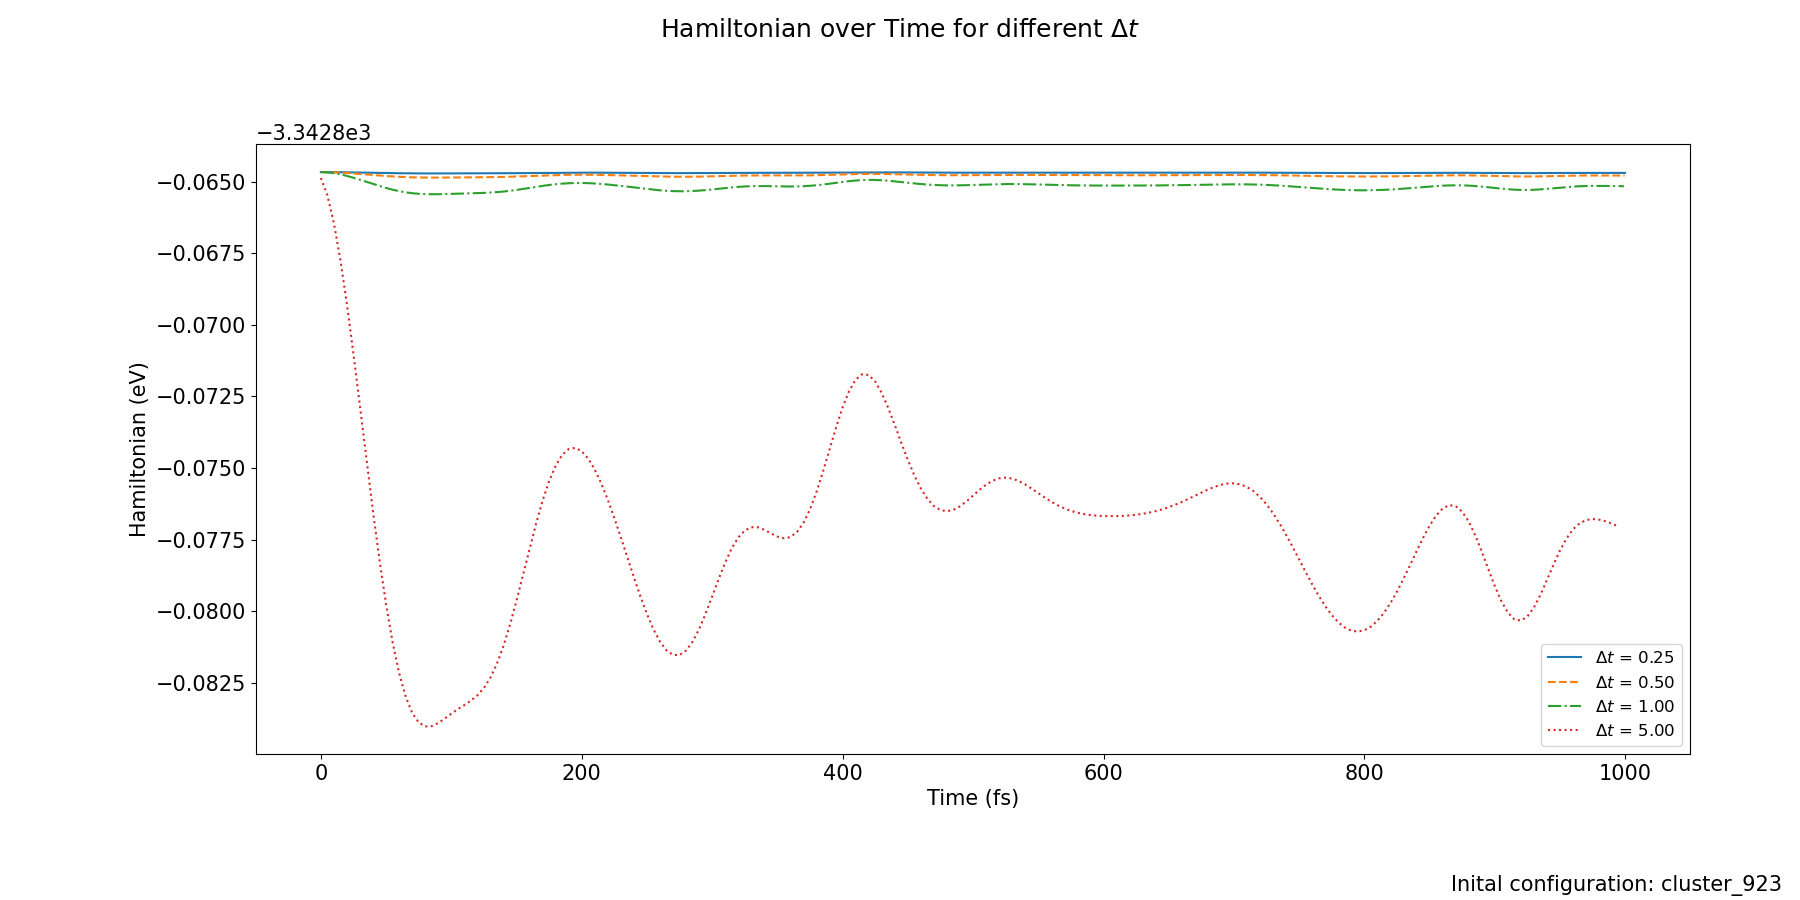
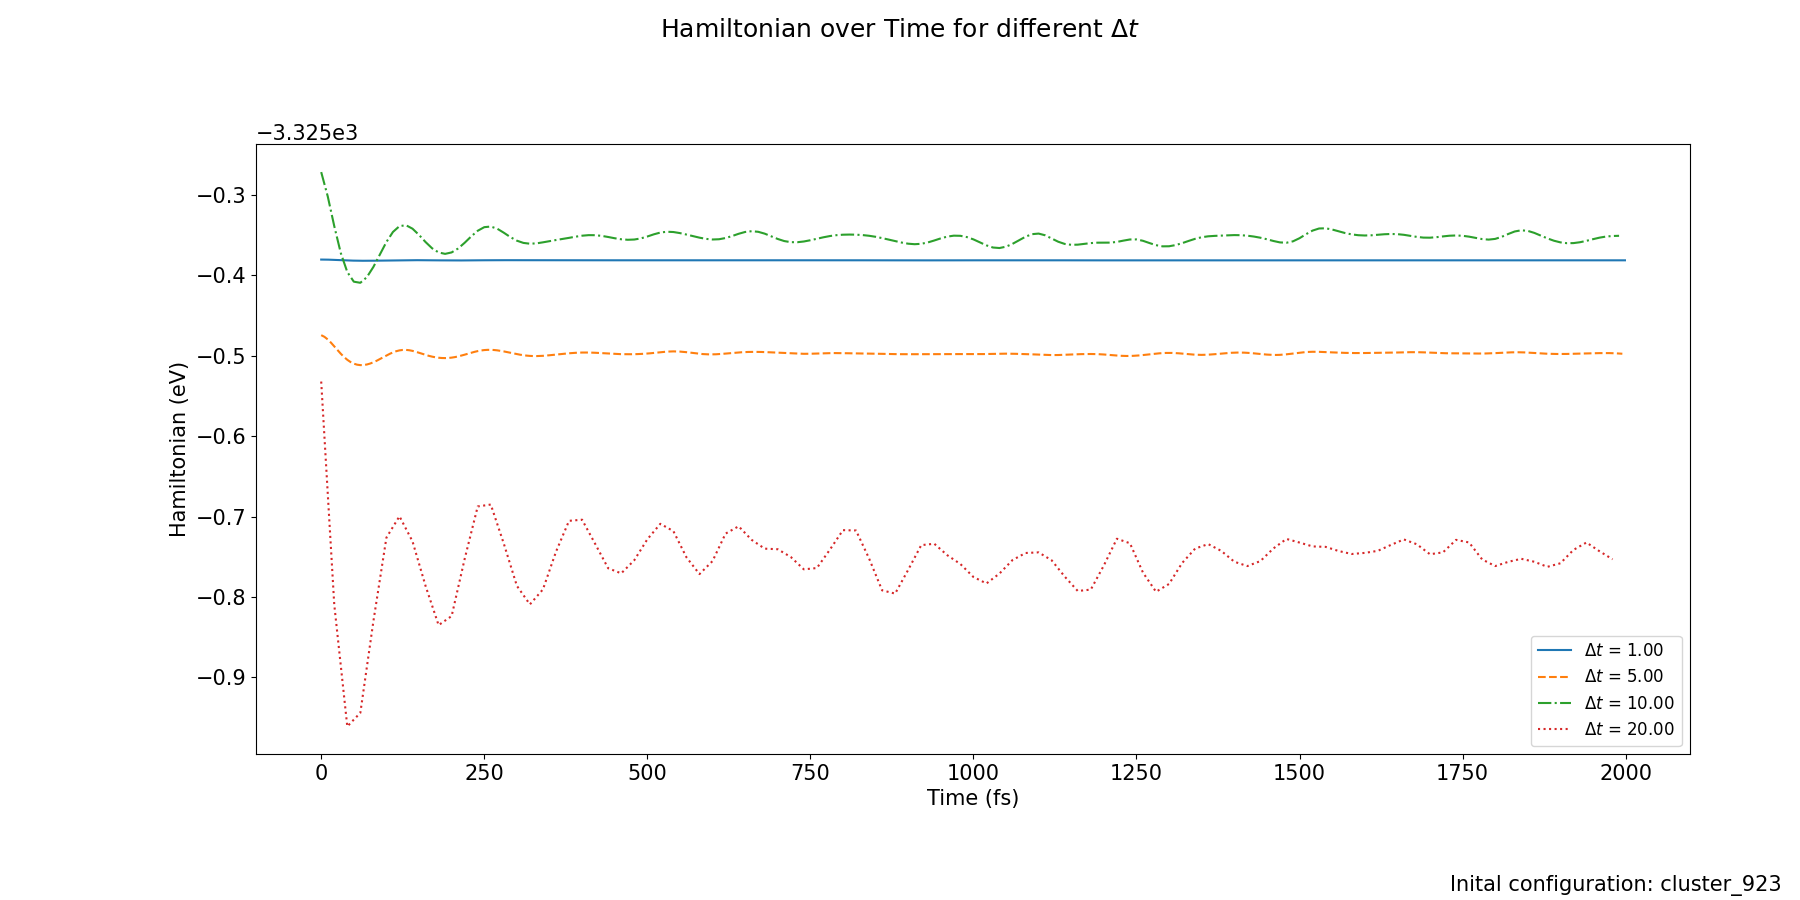
Add pre-heating to milestone 7

diff --git a/milestones/07/main.cpp b/milestones/07/main.cpp
@@ -21,6 +21,52 @@ double step(Atoms &atoms, double dt, NeighborList &neighbour_list) {
     return potential;
 };
 
+
+/// @brief Heat up the system to a target temperature before starting measurements, then let it rest without any thermostat input
+/// @param atoms the atoms to heat up
+/// @param dt the timestep sued
+/// @param temp target temperature
+void heat_up(Atoms atoms, double dt, double temp) {
+    // create neighbour list and initialize forces
+    NeighborList neighbour_list;
+    neighbour_list.update(atoms, 10.0);
+    (void)ducastelle(atoms, neighbour_list);
+    double t{0};
+    // debug
+    // std::ofstream traj("heating.xyz");
+    // size_t i{0};
+    double t_relax{300*dt};
+    double t_heat{20*t_relax};
+    double t_rest{10*t_relax};
+    while (t <t_heat+t_rest) {
+        verlet_step1(atoms.positions, atoms.velocities, atoms.forces, dt,
+                 atoms.masses);
+        neighbour_list.update(atoms, 10.0);
+        (void) ducastelle(atoms, neighbour_list);
+        verlet_step2(atoms.velocities, atoms.forces, dt, atoms.masses);
+
+        if (t<t_heat){
+            berendsen_thermostat(atoms, temp, dt, t_relax);
+            // subtract mean velocity from each velocity such that net movement is zero
+            // otherwise a rigid body motion would add to the temperature
+            atoms.velocities.row(0) -= atoms.velocities.row(0).mean();
+            atoms.velocities.row(1) -= atoms.velocities.row(1).mean();
+            atoms.velocities.row(2) -= atoms.velocities.row(2).mean();
+        }
+       
+        // debug
+        // if (i%50==0){
+        //     write_xyz(traj, atoms);
+        // }
+        // i++;
+        t += dt;
+    }
+    // save to file so this does not have to be redone
+    std::ofstream traj("923_500k.xyz");
+    write_xyz(traj,atoms);
+}
+
+
 /// @brief Run a simulation for a given timestep, tracking the hamiltonian and
 /// writing it to a csv file for analysis
 /// @param dt the timestep to use
@@ -29,8 +75,18 @@ double step(Atoms &atoms, double dt, NeighborList &neighbour_list) {
 void run_at_dt(double dt, double total_time, std::ofstream &dt_eam_file) {
     // initialiye gold cluster from file
     auto [names, positions,
-          velocities]{read_xyz_with_velocities("cluster_923.xyz")};
+          velocities]{read_xyz_with_velocities("923_500k.xyz")};
+    // auto [names, positions,
+    //       velocities]{read_xyz_with_velocities("cluster_923.xyz")};
     Atoms atoms{Atoms(names, positions)};
+    // give atoms a small random initial velocity so ehating the system affects all modes of movement
+    atoms.velocities.setRandom();
+    atoms.velocities *= 1e-3;
+    // heat up the system to a reasonable temperature, since running from an equilibrium state doesn't mean
+    // much in terms of conservation of energy
+    // heat_up(atoms, dt, 300.);
+    // std::cout << "heating done" << std::endl;
+
     // create neighbour list and initialize forces
     NeighborList neighbor_list;
     neighbor_list.update(atoms, 10.0);
@@ -63,29 +119,33 @@ int main(int argc, char *argv[]) {
         // FIND OPTIMAL TIMESTEP SIZE
 
         // total time to simulate the system for
-        double total_time{1000.};
+        double total_time{2000.};
         // open a csv file for the results, write the header
         std::ofstream dt_eam_file("dt_eam.csv");
         dt_eam_file << "dt,t,Hamiltonian,E_pot,E_kin," << std::endl;
         // try some timestep sizes, record the time evolution of the hamiltonian
         // for each
-        for (double dt : {0.25, 0.5, 1.0, 5.0, 10.}) {
+        for (double dt : {20., 10., 5., 1.0}) {
+        // for (double dt : {0.5}) {
             run_at_dt(dt, total_time, dt_eam_file);
         }
     }
 
+    return 0;
+
     // EAM ISOCAHEDRON ENERGY-TEMPERATURE GRAPH
     // settings
-    double dt{0.1};
+    double dt{5};
     size_t tau_relax{5000}; // in units of dt
     double from_temp{500};
     double until_temp{1200};
-    double increase_q_by{0.5};
+    // double increase_q_by{0.5}; // corresponds to about 4K for 923 atoms
+    double increase_temp_by {10.};
     std::ofstream gold_t_e("gold_t_e.csv");
 
     // initialize gold cluster from file
     auto [names, positions,
-          velocities]{read_xyz_with_velocities("cluster_923.xyz")};
+          velocities]{read_xyz_with_velocities("923_500k.xyz")};
     Atoms atoms{Atoms(names, positions)};
 
     // create neighbour list and initialize forces
@@ -93,19 +153,12 @@ int main(int argc, char *argv[]) {
     neighbour_list.update(atoms, 10.0);
     (void)ducastelle(atoms, neighbour_list);
     double current_temp{0.};
+    double e_pot{0.0};
 
     // first, heat up the system gently to some initial temperature so we don't
     // have to start from zero
-    double e_pot{0.0};
-    for (size_t i{0}; i < 10 * tau_relax; i++) {
-        // perform timestep
-        e_pot = step(atoms, dt, neighbour_list);
-        berendsen_thermostat(atoms, from_temp, dt, tau_relax * dt);
-        if (i % 500 == 0) {
-            debug_print(atoms, e_pot);
-        }
-    }
-    debug_print(atoms, e_pot);
+    std::cout << "HEATING UP TO INITIAL TEMPERATURE " << from_temp << "K" << std::endl;
+    heat_up(atoms, dt, from_temp);
     std::cout << "MEASUREMENTS STARTING" << std::endl;
 
     // then, repeatedly increase temperature, wait for tau_relax, measure energy
@@ -115,7 +168,7 @@ int main(int argc, char *argv[]) {
     std::ofstream traj("gold_t_e_traj.xyz");
     while (current_temp < until_temp) {
         // bump up energy
-        atoms.increase_kinetic_energy(increase_q_by);
+        atoms.increase_kinetic_energy_k(increase_temp_by);
         // wait for system to relax
         for (size_t i{0}; i <= tau_relax; i++) {
             (void)step(atoms, dt, neighbour_list);

diff --git a/src/atoms.cpp b/src/atoms.cpp
@@ -177,10 +177,21 @@ void Atoms::increase_kinetic_energy(double eV) {
     berendsen_thermostat(*this, target_temperature, 1.0, 1.0);
 };
 
+/// @brief Increase the total energy of the system by evenly rescaling
+/// velocities. Takes a target increase in temperature as an argument.
+/// @param K temperature increase in kelvin to achieve
+void Atoms::increase_kinetic_energy_k(double K) {
+    // reuse the berendsen theromstat logic to reach that temperature but set
+    // dt=relaxation_time to make the change instant
+    berendsen_thermostat(*this, temperature_cur(*this)+K, 1.0, 1.0);
+};
+
+/// @brief Resize the underlying arrays of the atoms structure, discarding atoms when size is reduced.
+/// @param new_size new size of the arrays, ie. new number of atoms
 void Atoms::resize(size_t new_size) {
-    positions.resize(new_size);
-    velocities.resize(new_size);
-    forces.resize(new_size);
-    masses.resize(new_size);
+    positions.resize(3,new_size);
+    velocities.resize(3,new_size);
+    forces.resize(3,new_size);
+    masses.resize(1,new_size);
     names.resize(new_size);
 }

diff --git a/analysis/dt_eam.py b/analysis/dt_eam.py
@@ -123,10 +123,10 @@ plt.ylabel(r"Hamiltonian (eV)")
 plt.tight_layout()
 plt.gcf().set_size_inches(18., 9., forward=True)
 for dt in [
-        "0.25",
-        "0.50",
         "1.00",
-        "5.00"
+        "5.00",
+        "10.00",
+        "20.00"
 ]:
     plot_from_csv("../builddir/dt_eam.csv",
                   dt, r"$\Delta t$ = "+dt)

diff --git a/src/atoms.h b/src/atoms.h
@@ -35,6 +35,8 @@ class Atoms {
 
     void increase_kinetic_energy(double eV);
 
+    void increase_kinetic_energy_k(double K);
+
     void resize(size_t new_size);
 };
 
